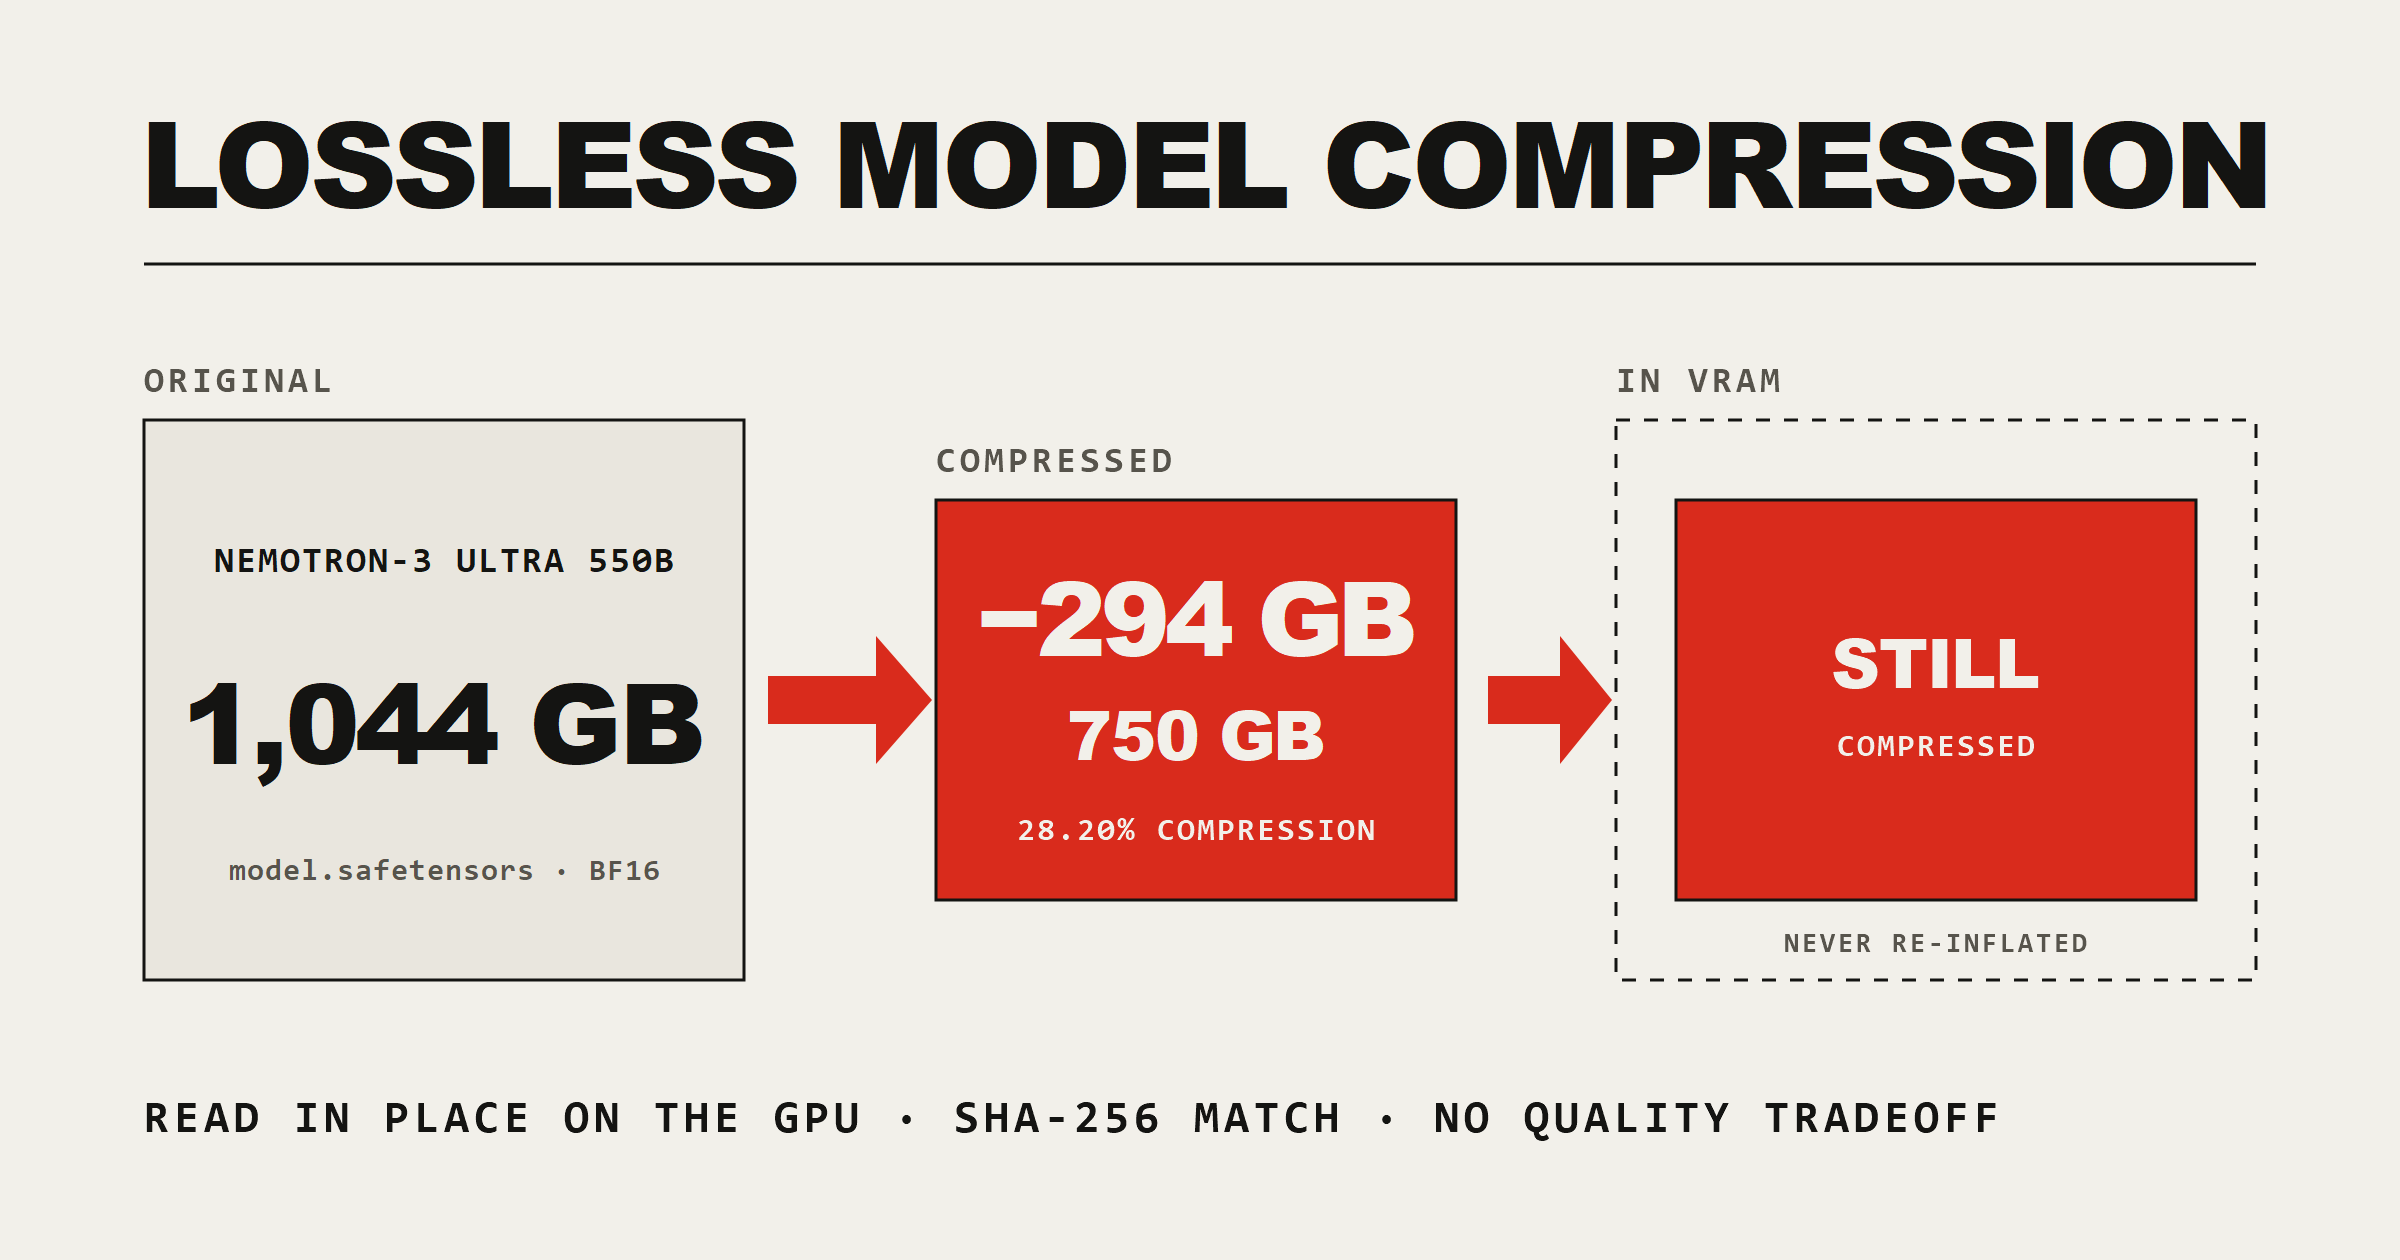
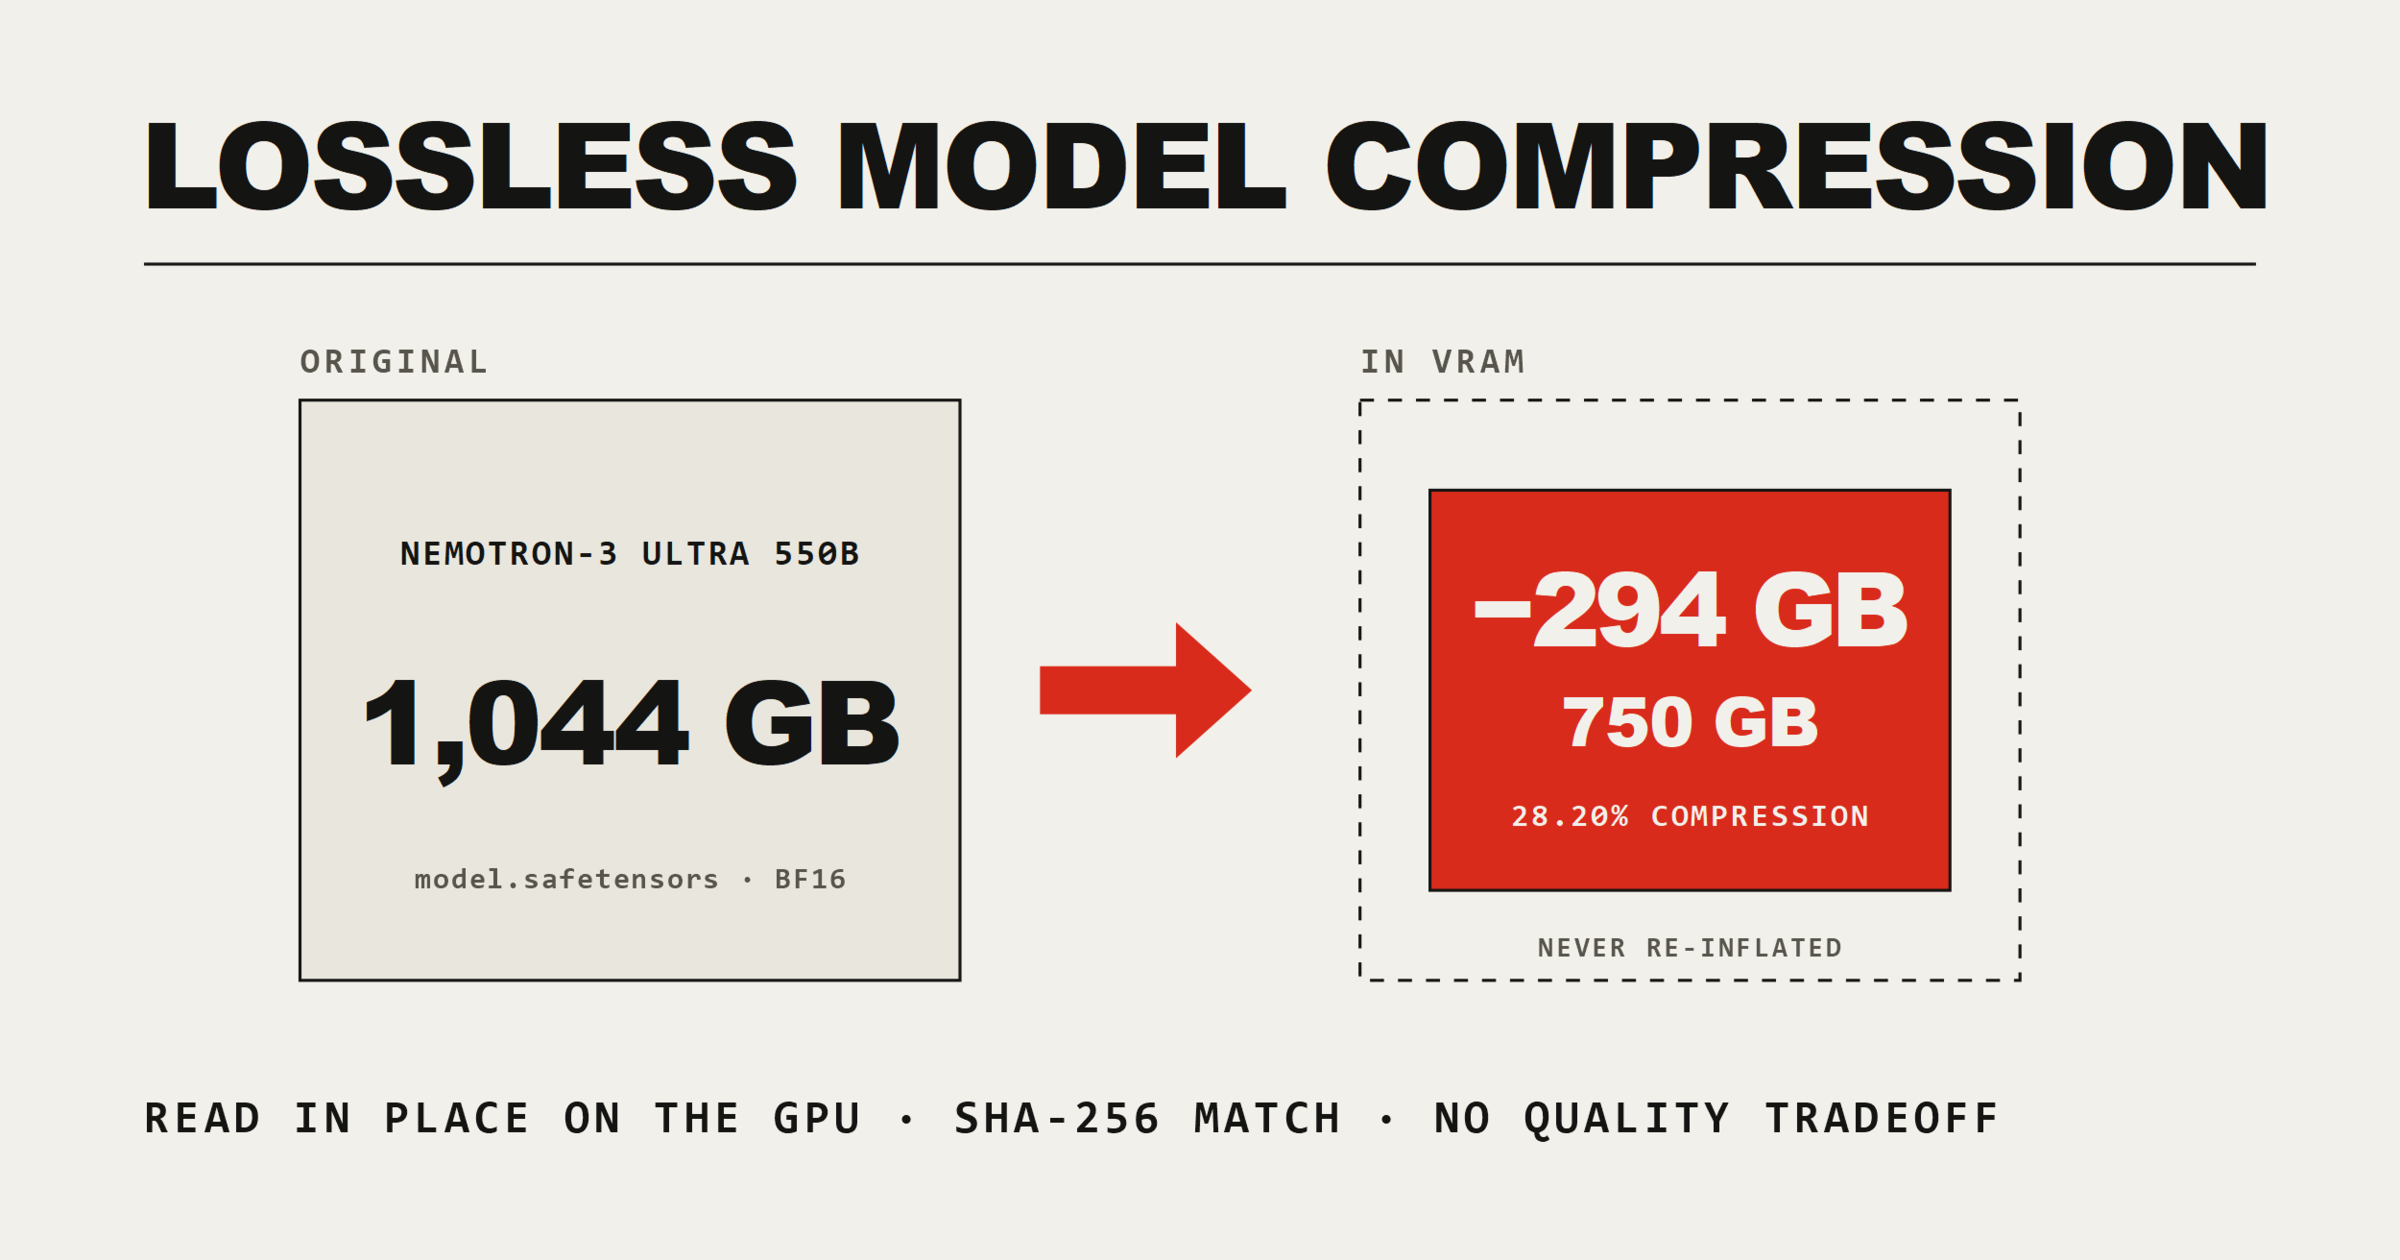
Simplify page to results-only; two-box flow in OG image
Remove the compression explainer sheets (anatomy, hunt log) and the hero Q&A; keep the gauge, family scaling, and reproduction. Drop the middle COMPRESSED box from og.png/og.svg to match the hero diagram and bump the OG cache-buster.

Claude-Session: https://claude.ai/code/session_012QRDgsbzpya79tS9k3fNzi

diff --git a/index.html b/index.html
@@ -10,12 +10,12 @@
 <meta property="og:url" content="https://brianbell-x.github.io/weight-compression/" />
 <meta property="og:title" content="Lossless Model Compression Experiment" />
 <meta property="og:description" content="30% smaller so far, in storage and in VRAM. The weights reconstruct bit-for-bit, so the model computes exactly the same thing." />
-<meta property="og:image" content="https://brianbell-x.github.io/weight-compression/og.png?v=20260703l" />
+<meta property="og:image" content="https://brianbell-x.github.io/weight-compression/og.png?v=20260703m" />
 <meta property="og:image:width" content="2400" />
 <meta property="og:image:height" content="1260" />
 <meta property="og:image:alt" content="Flow: Nemotron-3 Ultra 550B BF16 weights, 1,044 GB, compressed 28.20% to 750 GB (294 GB removed), and kept compressed in VRAM, never re-inflated." />
 <meta name="twitter:card" content="summary_large_image" />
-<meta name="twitter:image" content="https://brianbell-x.github.io/weight-compression/og.png?v=20260703l" />
+<meta name="twitter:image" content="https://brianbell-x.github.io/weight-compression/og.png?v=20260703m" />
 <link rel="icon" href="data:,">
 <link rel="preconnect" href="https://fonts.googleapis.com">
 <link rel="preconnect" href="https://fonts.gstatic.com" crossorigin>